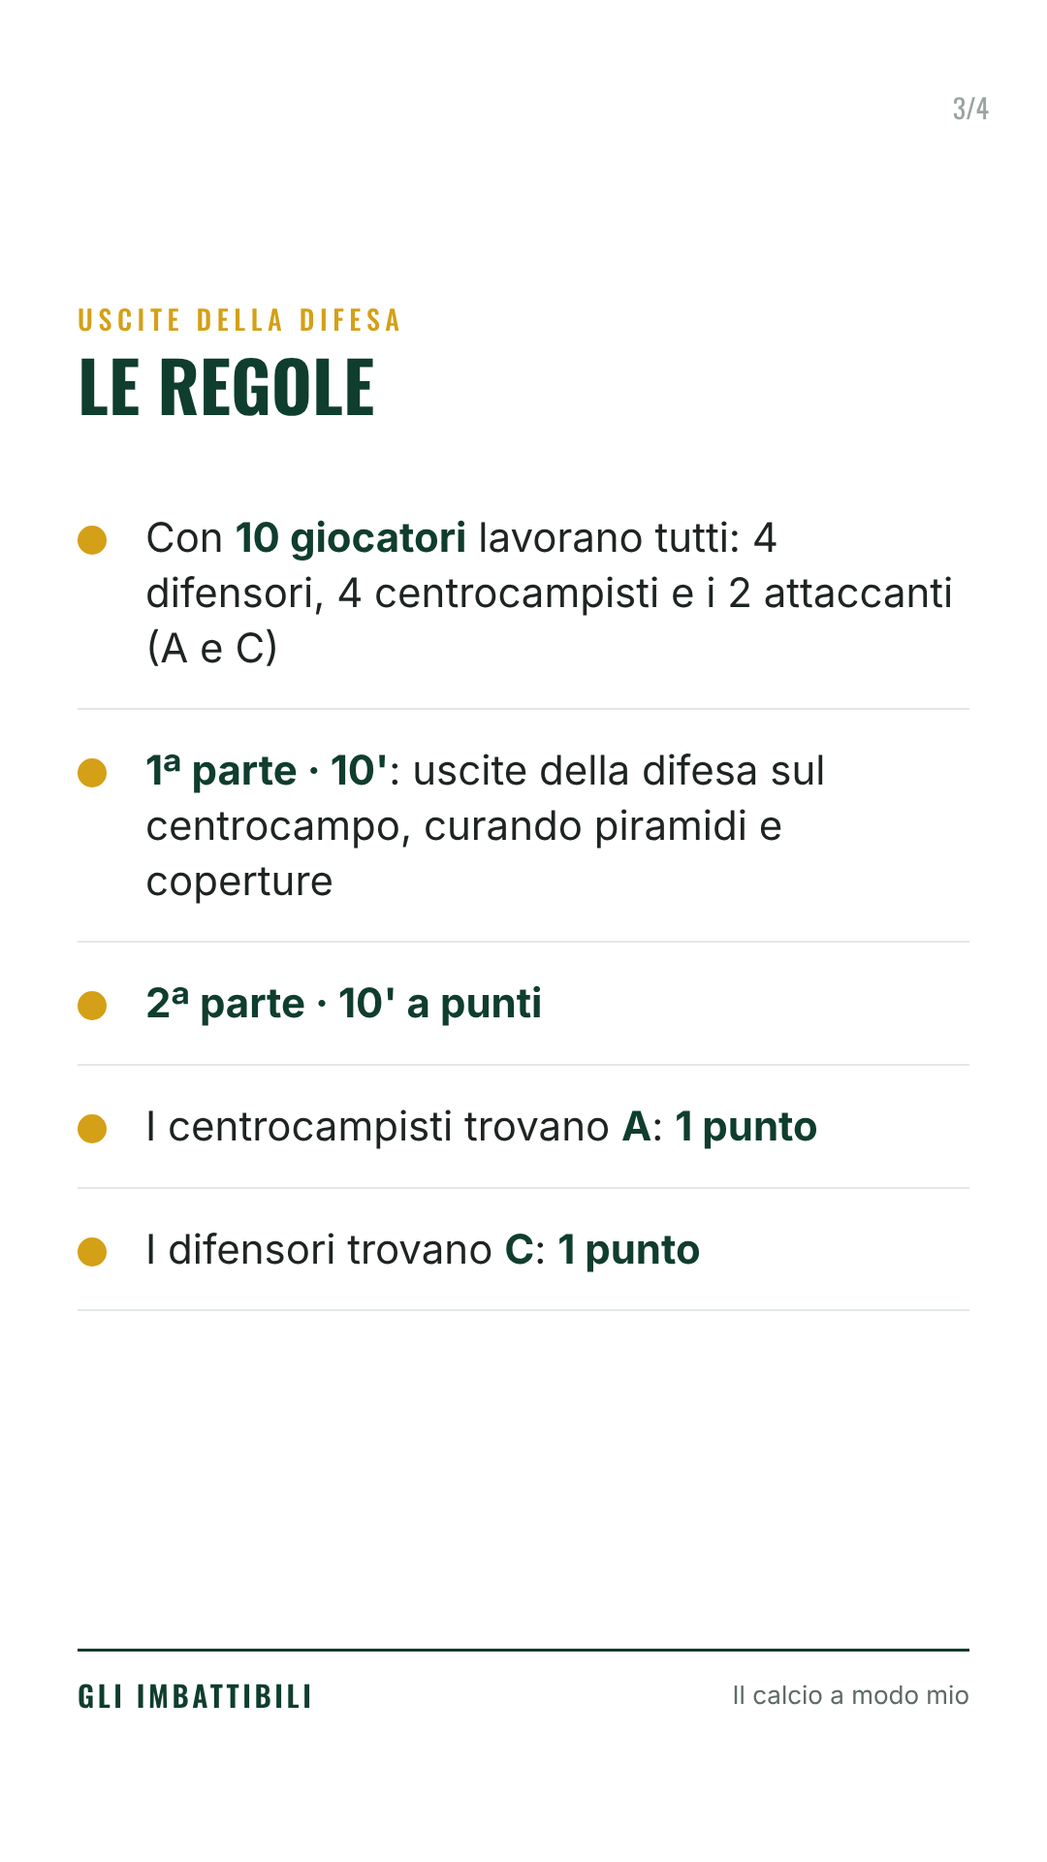
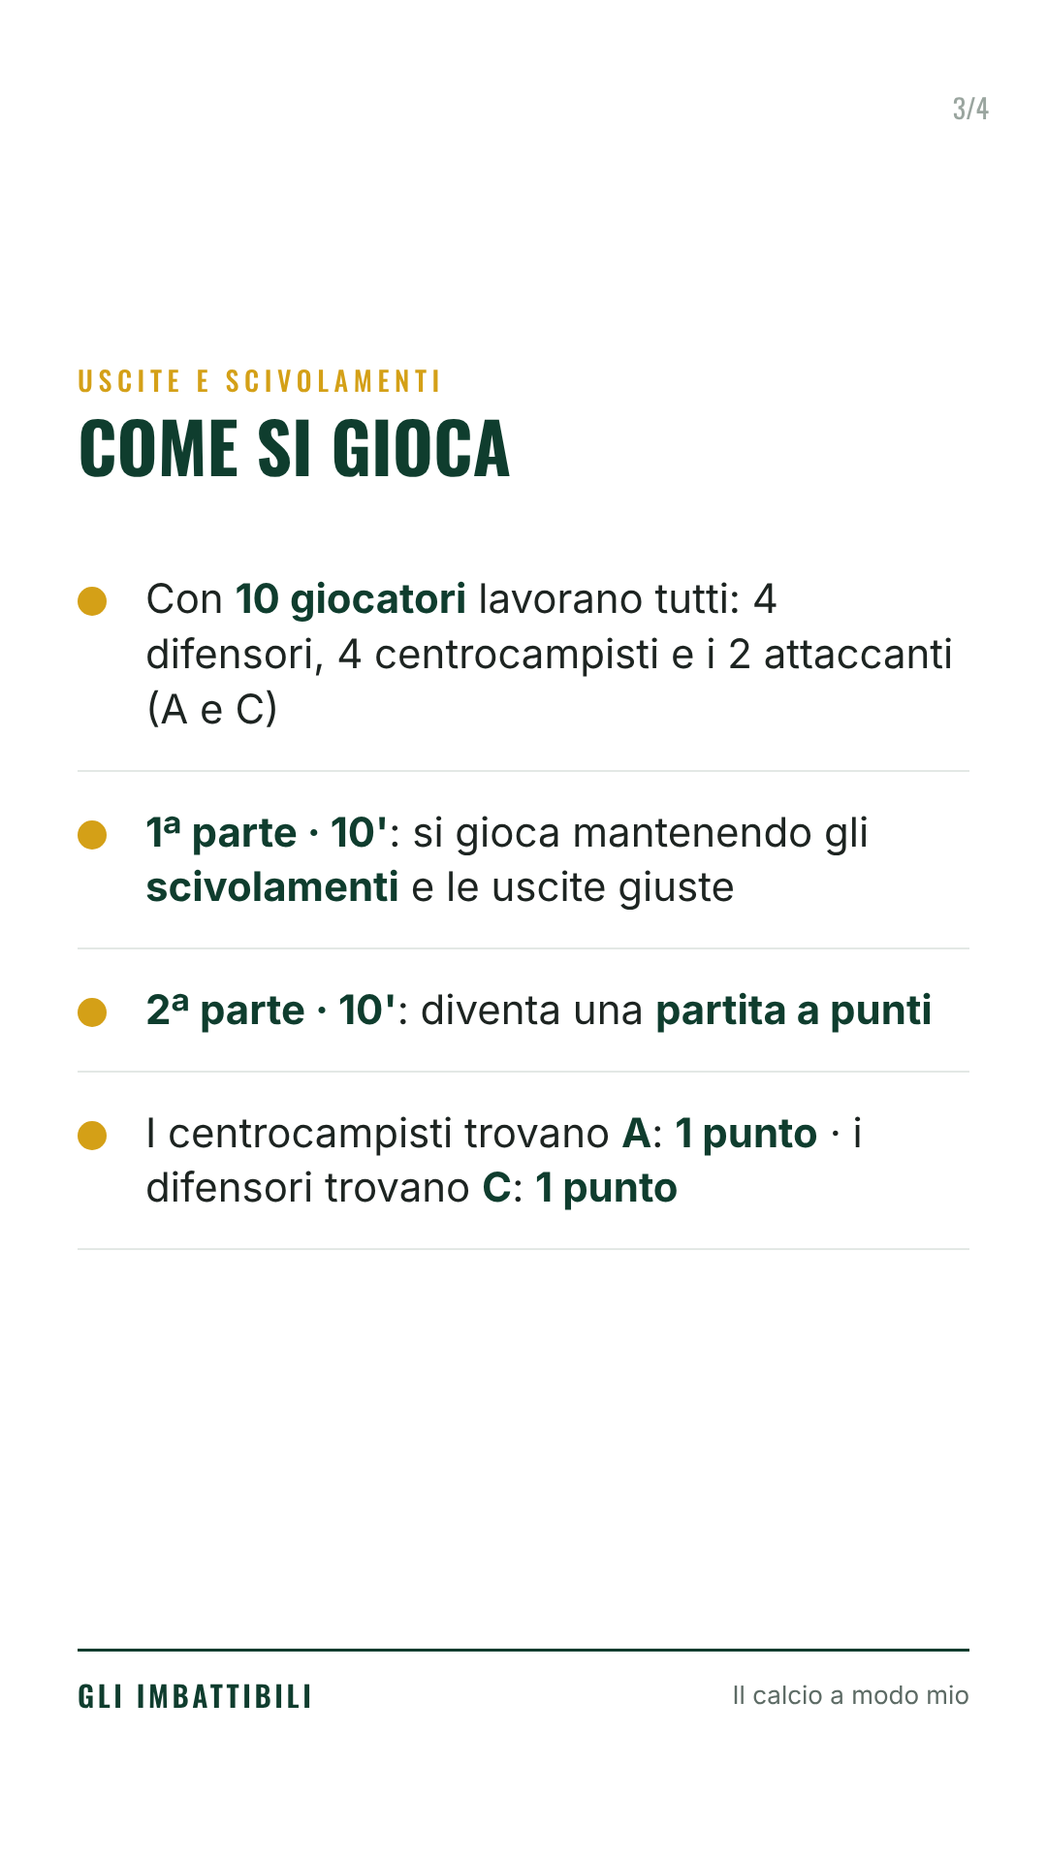
Post 15: piramide centrale, uscita a L, scivolamenti
Claude-Session: https://claude.ai/code/session_01Y6imChDnJpMKHUHGGzDa7m

diff --git a/marketing/social/post-solo15-4x5.html b/marketing/social/post-solo15-4x5.html
@@ -93,29 +93,30 @@ h1, h2 { font-family: Oswald, sans-serif; font-weight: 700; text-transform: uppe
 <section class="slide int">
   <div class="num">2/4</div>
   <div class="kicker">Esercitazione · Il Precampionato</div>
-  <h2 style="font-size:62px;margin-bottom:22px">Uscite della difesa sul centrocampo</h2>
+  <h2 style="font-size:58px;margin-bottom:22px">Uscite e scivolamenti, difesa e centrocampo</h2>
   <div class="riq" style="width:100%;max-width:820px;margin:0 auto"><svg class="schema" viewBox="0 0 500 330">
     <rect width="500" height="330" fill="url(#strisce)"/>
     <g fill="none" stroke="#fff" stroke-width="2.5"><rect x="50" y="65" width="400" height="200"/></g>
-    <use href="#pJ" x="250" y="35"/><text x="250" y="39.5" font-family="Oswald" font-size="13" font-weight="700" text-anchor="middle" fill="#1d2421">A</text><use href="#pJ" x="250" y="297"/><text x="250" y="301.5" font-family="Oswald" font-size="13" font-weight="700" text-anchor="middle" fill="#1d2421">C</text>
-    <g opacity=".4"><use href="#pB" x="130" y="100"/><text x="130" y="104.5" font-family="Oswald" font-size="13" font-weight="700" text-anchor="middle" fill="#fff">2</text><use href="#pB" x="210" y="100"/><text x="210" y="104.5" font-family="Oswald" font-size="13" font-weight="700" text-anchor="middle" fill="#fff">5</text><use href="#pB" x="290" y="100"/><text x="290" y="104.5" font-family="Oswald" font-size="13" font-weight="700" text-anchor="middle" fill="#fff">6</text></g>
-    <path d="M130,112 L130,178" stroke="#f2c230" stroke-width="2.5" fill="none" marker-end="url(#freccia-oro)"/>
-    <path d="M218,108 L178,128" stroke="#f2c230" stroke-width="2.5" fill="none" marker-end="url(#freccia-oro)"/><path d="M292,108 L252,124" stroke="#f2c230" stroke-width="2.5" fill="none" marker-end="url(#freccia-oro)"/>
-    <use href="#pB" x="130" y="190"/><text x="130" y="194.5" font-family="Oswald" font-size="13" font-weight="700" text-anchor="middle" fill="#fff">2</text><use href="#pB" x="170" y="135"/><text x="170" y="139.5" font-family="Oswald" font-size="13" font-weight="700" text-anchor="middle" fill="#fff">5</text><use href="#pB" x="245" y="130"/><text x="245" y="134.5" font-family="Oswald" font-size="13" font-weight="700" text-anchor="middle" fill="#fff">6</text><use href="#pB" x="370" y="100"/><text x="370" y="104.5" font-family="Oswald" font-size="13" font-weight="700" text-anchor="middle" fill="#fff">3</text>
-    <use href="#pA" x="130" y="235"/><use href="#pA" x="210" y="240"/><use href="#pA" x="290" y="240"/><use href="#pA" x="370" y="235"/>
-    <use href="#palla" x="142" y="242"/>
+    <use href="#pA" x="250" y="35"/><text x="250" y="39.5" font-family="Oswald" font-size="13" font-weight="700" text-anchor="middle" fill="#fff">A</text><use href="#pA" x="250" y="297"/><text x="250" y="301.5" font-family="Oswald" font-size="13" font-weight="700" text-anchor="middle" fill="#fff">C</text>
+    <g opacity=".4"><use href="#pB" x="130" y="100"/><text x="130" y="104.5" font-family="Oswald" font-size="13" font-weight="700" text-anchor="middle" fill="#fff">2</text><use href="#pB" x="210" y="100"/><text x="210" y="104.5" font-family="Oswald" font-size="13" font-weight="700" text-anchor="middle" fill="#fff">5</text><use href="#pB" x="290" y="100"/><text x="290" y="104.5" font-family="Oswald" font-size="13" font-weight="700" text-anchor="middle" fill="#fff">6</text><use href="#pB" x="370" y="100"/><text x="370" y="104.5" font-family="Oswald" font-size="13" font-weight="700" text-anchor="middle" fill="#fff">3</text></g>
+    <path d="M210,112 L210,178" stroke="#f2c230" stroke-width="2.5" fill="none" marker-end="url(#freccia-oro)"/>
+    <path d="M140,104 L160,118" stroke="#f2c230" stroke-width="2.5" fill="none" marker-end="url(#freccia-oro)"/><path d="M280,104 L262,118" stroke="#f2c230" stroke-width="2.5" fill="none" marker-end="url(#freccia-oro)"/><path d="M360,102 L332,108" stroke="#f2c230" stroke-width="2.5" fill="none" marker-end="url(#freccia-oro)"/>
+    <use href="#pB" x="210" y="190"/><text x="210" y="194.5" font-family="Oswald" font-size="13" font-weight="700" text-anchor="middle" fill="#fff">5</text><use href="#pB" x="168" y="128"/><text x="168" y="132.5" font-family="Oswald" font-size="13" font-weight="700" text-anchor="middle" fill="#fff">2</text><use href="#pB" x="254" y="128"/><text x="254" y="132.5" font-family="Oswald" font-size="13" font-weight="700" text-anchor="middle" fill="#fff">6</text><use href="#pB" x="322" y="110"/><text x="322" y="114.5" font-family="Oswald" font-size="13" font-weight="700" text-anchor="middle" fill="#fff">3</text>
+    <g fill="none" stroke="#f2c230" stroke-width="2" stroke-dasharray="5 4"><path d="M168,128 L210,190 L254,128"/></g>
+    <use href="#pA" x="130" y="240"/><use href="#pA" x="210" y="240"/><use href="#pA" x="290" y="240"/><use href="#pA" x="370" y="240"/>
+    <use href="#palla" x="222" y="247"/>
     <text x="250" y="58" fill="#fff" font-family="Oswald" font-size="13" text-anchor="middle" letter-spacing="1">20 M</text>
     <text x="465" y="170" fill="#fff" font-family="Oswald" font-size="13" text-anchor="middle" letter-spacing="1" transform="rotate(90 465 170)">10 M</text>
-    <text x="100" y="160" fill="#f2c230" font-family="Oswald" font-size="13" font-weight="700" text-anchor="middle" letter-spacing="1" transform="rotate(-90 100 160)">ESCE</text>
-    <text x="215" y="170" fill="#f2c230" font-family="Oswald" font-size="13" font-weight="700" text-anchor="middle" letter-spacing="1">PIRAMIDE</text>
-  </svg></div><p class="desc">Per chi gioca con il <b>4-4-2</b>: <b>4 difensori</b> contro <b>4 centrocampisti</b> in un rettangolo di <b>20 × 10 m</b>. I due attaccanti fanno da riferimento: <b>A</b> oltre la linea dei difensori, <b>C</b> oltre quella dei centrocampisti.<br><br>Quando un centrocampista riceve, il difensore di fronte <b>esce</b> e i compagni vicini si stringono alle sue spalle: la <b>piramide</b>.</p>
+    <text x="228" y="214" fill="#f2c230" font-family="Oswald" font-size="13" font-weight="700" letter-spacing="1">ESCE</text>
+    <text x="300" y="175" fill="#f2c230" font-family="Oswald" font-size="13" font-weight="700" letter-spacing="1">PIRAMIDE</text>
+  </svg></div><p class="desc">Per chi gioca con il <b>4-4-2</b>: <b>4 difensori</b> contro <b>4 centrocampisti</b> in un rettangolo di <b>20 × 10 m</b>, i due attaccanti come riferimento (<b>A</b> e <b>C</b>). Escono entrambi i reparti.<br><br><b>Palla centrale</b>: esce il giocatore di fronte e i compagni si stringono, terzino opposto compreso: la <b>piramide</b>.<br><b>Palla sull'esterno</b>: esce il laterale e gli altri restano in linea: uscita <b>a L</b>.</p>
   <div class="marchio"><b>GLI IMBATTIBILI</b><span>Il calcio a modo mio</span></div>
 </section>
 <section class="slide int">
   <div class="num">3/4</div>
-  <div class="kicker">Uscite della difesa</div>
-  <h2 style="font-size:72px">Le regole</h2>
-  <ul class="punti"><li>Con <b>10 giocatori</b> lavorano tutti: 4 difensori, 4 centrocampisti e i 2 attaccanti (A e C)</li><li><b>1ª parte · 10'</b>: uscite della difesa sul centrocampo, curando piramidi e coperture</li><li><b>2ª parte · 10' a punti</b></li><li>I centrocampisti trovano <b>A</b>: <b>1 punto</b></li><li>I difensori trovano <b>C</b>: <b>1 punto</b></li></ul>
+  <div class="kicker">Uscite e scivolamenti</div>
+  <h2 style="font-size:72px">Come si gioca</h2>
+  <ul class="punti"><li>Con <b>10 giocatori</b> lavorano tutti: 4 difensori, 4 centrocampisti e i 2 attaccanti (A e C)</li><li><b>1ª parte · 10'</b>: si gioca mantenendo gli <b>scivolamenti</b> e le uscite giuste</li><li><b>2ª parte · 10'</b>: diventa una <b>partita a punti</b></li><li>I centrocampisti trovano <b>A</b>: <b>1 punto</b> · i difensori trovano <b>C</b>: <b>1 punto</b></li></ul>
   <div class="marchio"><b>GLI IMBATTIBILI</b><span>Il calcio a modo mio</span></div>
 </section>
 <section class="slide fine">

diff --git a/marketing/social/post-solo15-9x16.html b/marketing/social/post-solo15-9x16.html
@@ -93,29 +93,30 @@ h1, h2 { font-family: Oswald, sans-serif; font-weight: 700; text-transform: uppe
 <section class="slide int">
   <div class="num">2/4</div>
   <div class="kicker">Esercitazione · Il Precampionato</div>
-  <h2 style="font-size:62px;margin-bottom:22px">Uscite della difesa sul centrocampo</h2>
+  <h2 style="font-size:58px;margin-bottom:22px">Uscite e scivolamenti, difesa e centrocampo</h2>
   <div class="riq" style="width:100%;max-width:820px;margin:0 auto"><svg class="schema" viewBox="0 0 500 330">
     <rect width="500" height="330" fill="url(#strisce)"/>
     <g fill="none" stroke="#fff" stroke-width="2.5"><rect x="50" y="65" width="400" height="200"/></g>
-    <use href="#pJ" x="250" y="35"/><text x="250" y="39.5" font-family="Oswald" font-size="13" font-weight="700" text-anchor="middle" fill="#1d2421">A</text><use href="#pJ" x="250" y="297"/><text x="250" y="301.5" font-family="Oswald" font-size="13" font-weight="700" text-anchor="middle" fill="#1d2421">C</text>
-    <g opacity=".4"><use href="#pB" x="130" y="100"/><text x="130" y="104.5" font-family="Oswald" font-size="13" font-weight="700" text-anchor="middle" fill="#fff">2</text><use href="#pB" x="210" y="100"/><text x="210" y="104.5" font-family="Oswald" font-size="13" font-weight="700" text-anchor="middle" fill="#fff">5</text><use href="#pB" x="290" y="100"/><text x="290" y="104.5" font-family="Oswald" font-size="13" font-weight="700" text-anchor="middle" fill="#fff">6</text></g>
-    <path d="M130,112 L130,178" stroke="#f2c230" stroke-width="2.5" fill="none" marker-end="url(#freccia-oro)"/>
-    <path d="M218,108 L178,128" stroke="#f2c230" stroke-width="2.5" fill="none" marker-end="url(#freccia-oro)"/><path d="M292,108 L252,124" stroke="#f2c230" stroke-width="2.5" fill="none" marker-end="url(#freccia-oro)"/>
-    <use href="#pB" x="130" y="190"/><text x="130" y="194.5" font-family="Oswald" font-size="13" font-weight="700" text-anchor="middle" fill="#fff">2</text><use href="#pB" x="170" y="135"/><text x="170" y="139.5" font-family="Oswald" font-size="13" font-weight="700" text-anchor="middle" fill="#fff">5</text><use href="#pB" x="245" y="130"/><text x="245" y="134.5" font-family="Oswald" font-size="13" font-weight="700" text-anchor="middle" fill="#fff">6</text><use href="#pB" x="370" y="100"/><text x="370" y="104.5" font-family="Oswald" font-size="13" font-weight="700" text-anchor="middle" fill="#fff">3</text>
-    <use href="#pA" x="130" y="235"/><use href="#pA" x="210" y="240"/><use href="#pA" x="290" y="240"/><use href="#pA" x="370" y="235"/>
-    <use href="#palla" x="142" y="242"/>
+    <use href="#pA" x="250" y="35"/><text x="250" y="39.5" font-family="Oswald" font-size="13" font-weight="700" text-anchor="middle" fill="#fff">A</text><use href="#pA" x="250" y="297"/><text x="250" y="301.5" font-family="Oswald" font-size="13" font-weight="700" text-anchor="middle" fill="#fff">C</text>
+    <g opacity=".4"><use href="#pB" x="130" y="100"/><text x="130" y="104.5" font-family="Oswald" font-size="13" font-weight="700" text-anchor="middle" fill="#fff">2</text><use href="#pB" x="210" y="100"/><text x="210" y="104.5" font-family="Oswald" font-size="13" font-weight="700" text-anchor="middle" fill="#fff">5</text><use href="#pB" x="290" y="100"/><text x="290" y="104.5" font-family="Oswald" font-size="13" font-weight="700" text-anchor="middle" fill="#fff">6</text><use href="#pB" x="370" y="100"/><text x="370" y="104.5" font-family="Oswald" font-size="13" font-weight="700" text-anchor="middle" fill="#fff">3</text></g>
+    <path d="M210,112 L210,178" stroke="#f2c230" stroke-width="2.5" fill="none" marker-end="url(#freccia-oro)"/>
+    <path d="M140,104 L160,118" stroke="#f2c230" stroke-width="2.5" fill="none" marker-end="url(#freccia-oro)"/><path d="M280,104 L262,118" stroke="#f2c230" stroke-width="2.5" fill="none" marker-end="url(#freccia-oro)"/><path d="M360,102 L332,108" stroke="#f2c230" stroke-width="2.5" fill="none" marker-end="url(#freccia-oro)"/>
+    <use href="#pB" x="210" y="190"/><text x="210" y="194.5" font-family="Oswald" font-size="13" font-weight="700" text-anchor="middle" fill="#fff">5</text><use href="#pB" x="168" y="128"/><text x="168" y="132.5" font-family="Oswald" font-size="13" font-weight="700" text-anchor="middle" fill="#fff">2</text><use href="#pB" x="254" y="128"/><text x="254" y="132.5" font-family="Oswald" font-size="13" font-weight="700" text-anchor="middle" fill="#fff">6</text><use href="#pB" x="322" y="110"/><text x="322" y="114.5" font-family="Oswald" font-size="13" font-weight="700" text-anchor="middle" fill="#fff">3</text>
+    <g fill="none" stroke="#f2c230" stroke-width="2" stroke-dasharray="5 4"><path d="M168,128 L210,190 L254,128"/></g>
+    <use href="#pA" x="130" y="240"/><use href="#pA" x="210" y="240"/><use href="#pA" x="290" y="240"/><use href="#pA" x="370" y="240"/>
+    <use href="#palla" x="222" y="247"/>
     <text x="250" y="58" fill="#fff" font-family="Oswald" font-size="13" text-anchor="middle" letter-spacing="1">20 M</text>
     <text x="465" y="170" fill="#fff" font-family="Oswald" font-size="13" text-anchor="middle" letter-spacing="1" transform="rotate(90 465 170)">10 M</text>
-    <text x="100" y="160" fill="#f2c230" font-family="Oswald" font-size="13" font-weight="700" text-anchor="middle" letter-spacing="1" transform="rotate(-90 100 160)">ESCE</text>
-    <text x="215" y="170" fill="#f2c230" font-family="Oswald" font-size="13" font-weight="700" text-anchor="middle" letter-spacing="1">PIRAMIDE</text>
-  </svg></div><p class="desc">Per chi gioca con il <b>4-4-2</b>: <b>4 difensori</b> contro <b>4 centrocampisti</b> in un rettangolo di <b>20 × 10 m</b>. I due attaccanti fanno da riferimento: <b>A</b> oltre la linea dei difensori, <b>C</b> oltre quella dei centrocampisti.<br><br>Quando un centrocampista riceve, il difensore di fronte <b>esce</b> e i compagni vicini si stringono alle sue spalle: la <b>piramide</b>.</p>
+    <text x="228" y="214" fill="#f2c230" font-family="Oswald" font-size="13" font-weight="700" letter-spacing="1">ESCE</text>
+    <text x="300" y="175" fill="#f2c230" font-family="Oswald" font-size="13" font-weight="700" letter-spacing="1">PIRAMIDE</text>
+  </svg></div><p class="desc">Per chi gioca con il <b>4-4-2</b>: <b>4 difensori</b> contro <b>4 centrocampisti</b> in un rettangolo di <b>20 × 10 m</b>, i due attaccanti come riferimento (<b>A</b> e <b>C</b>). Escono entrambi i reparti.<br><br><b>Palla centrale</b>: esce il giocatore di fronte e i compagni si stringono, terzino opposto compreso: la <b>piramide</b>.<br><b>Palla sull'esterno</b>: esce il laterale e gli altri restano in linea: uscita <b>a L</b>.</p>
   <div class="marchio"><b>GLI IMBATTIBILI</b><span>Il calcio a modo mio</span></div>
 </section>
 <section class="slide int">
   <div class="num">3/4</div>
-  <div class="kicker">Uscite della difesa</div>
-  <h2 style="font-size:72px">Le regole</h2>
-  <ul class="punti"><li>Con <b>10 giocatori</b> lavorano tutti: 4 difensori, 4 centrocampisti e i 2 attaccanti (A e C)</li><li><b>1ª parte · 10'</b>: uscite della difesa sul centrocampo, curando piramidi e coperture</li><li><b>2ª parte · 10' a punti</b></li><li>I centrocampisti trovano <b>A</b>: <b>1 punto</b></li><li>I difensori trovano <b>C</b>: <b>1 punto</b></li></ul>
+  <div class="kicker">Uscite e scivolamenti</div>
+  <h2 style="font-size:72px">Come si gioca</h2>
+  <ul class="punti"><li>Con <b>10 giocatori</b> lavorano tutti: 4 difensori, 4 centrocampisti e i 2 attaccanti (A e C)</li><li><b>1ª parte · 10'</b>: si gioca mantenendo gli <b>scivolamenti</b> e le uscite giuste</li><li><b>2ª parte · 10'</b>: diventa una <b>partita a punti</b></li><li>I centrocampisti trovano <b>A</b>: <b>1 punto</b> · i difensori trovano <b>C</b>: <b>1 punto</b></li></ul>
   <div class="marchio"><b>GLI IMBATTIBILI</b><span>Il calcio a modo mio</span></div>
 </section>
 <section class="slide fine">

diff --git a/marketing/social/genera-post.py b/marketing/social/genera-post.py
@@ -237,17 +237,18 @@ def schema_uscite():
     return f'''<svg class="schema" viewBox="0 0 500 330">
     <rect width="500" height="330" fill="url(#strisce)"/>
     <g fill="none" stroke="#fff" stroke-width="2.5"><rect x="50" y="65" width="400" height="200"/></g>
-    {g(250, 35, "pJ", "A", "#1d2421")}{g(250, 297, "pJ", "C", "#1d2421")}
-    <g opacity=".4">{g(130, 100, "pB", 2)}{g(210, 100, "pB", 5)}{g(290, 100, "pB", 6)}</g>
-    {freccia("M130,112 L130,178", True)}
-    {freccia("M218,108 L178,128", True)}{freccia("M292,108 L252,124", True)}
-    {g(130, 190, "pB", 2)}{g(170, 135, "pB", 5)}{g(245, 130, "pB", 6)}{g(370, 100, "pB", 3)}
-    {g(130, 235, "pA")}{g(210, 240, "pA")}{g(290, 240, "pA")}{g(370, 235, "pA")}
-    <use href="#palla" x="142" y="242"/>
+    {g(250, 35, "pA", "A")}{g(250, 297, "pA", "C")}
+    <g opacity=".4">{g(130, 100, "pB", 2)}{g(210, 100, "pB", 5)}{g(290, 100, "pB", 6)}{g(370, 100, "pB", 3)}</g>
+    {freccia("M210,112 L210,178", True)}
+    {freccia("M140,104 L160,118", True)}{freccia("M280,104 L262,118", True)}{freccia("M360,102 L332,108", True)}
+    {g(210, 190, "pB", 5)}{g(168, 128, "pB", 2)}{g(254, 128, "pB", 6)}{g(322, 110, "pB", 3)}
+    <g fill="none" stroke="#f2c230" stroke-width="2" stroke-dasharray="5 4"><path d="M168,128 L210,190 L254,128"/></g>
+    {g(130, 240, "pA")}{g(210, 240, "pA")}{g(290, 240, "pA")}{g(370, 240, "pA")}
+    <use href="#palla" x="222" y="247"/>
     <text x="250" y="58" fill="#fff" font-family="Oswald" font-size="13" text-anchor="middle" letter-spacing="1">20 M</text>
     <text x="465" y="170" fill="#fff" font-family="Oswald" font-size="13" text-anchor="middle" letter-spacing="1" transform="rotate(90 465 170)">10 M</text>
-    <text x="100" y="160" fill="#f2c230" font-family="Oswald" font-size="13" font-weight="700" text-anchor="middle" letter-spacing="1" transform="rotate(-90 100 160)">ESCE</text>
-    <text x="215" y="170" fill="#f2c230" font-family="Oswald" font-size="13" font-weight="700" text-anchor="middle" letter-spacing="1">PIRAMIDE</text>
+    <text x="228" y="214" fill="#f2c230" font-family="Oswald" font-size="13" font-weight="700" letter-spacing="1">ESCE</text>
+    <text x="300" y="175" fill="#f2c230" font-family="Oswald" font-size="13" font-weight="700" letter-spacing="1">PIRAMIDE</text>
   </svg>'''
 
 
@@ -487,15 +488,14 @@ POST = [
         gancio="Uscire<span>senza lasciare spazio</span>", h1style="font-size:120px",
         sub="Difensori e centrocampisti insieme, per chi gioca con il <b>4-4-2</b>.",
         custom=[
-            dict(kicker="Esercitazione · Il Precampionato", titolo="Uscite della difesa sul centrocampo", schema=schema_uscite(),
-                 testo="Per chi gioca con il <b>4-4-2</b>: <b>4 difensori</b> contro <b>4 centrocampisti</b> in un rettangolo di <b>20 × 10 m</b>. I due attaccanti fanno da riferimento: <b>A</b> oltre la linea dei difensori, <b>C</b> oltre quella dei centrocampisti.<br><br>Quando un centrocampista riceve, il difensore di fronte <b>esce</b> e i compagni vicini si stringono alle sue spalle: la <b>piramide</b>.",
-                 h2style="font-size:62px;margin-bottom:22px", riqstyle="width:100%;max-width:820px;margin:0 auto"),
-            dict(kicker="Uscite della difesa", titolo="Le regole",
+            dict(kicker="Esercitazione · Il Precampionato", titolo="Uscite e scivolamenti, difesa e centrocampo", schema=schema_uscite(),
+                 testo="Per chi gioca con il <b>4-4-2</b>: <b>4 difensori</b> contro <b>4 centrocampisti</b> in un rettangolo di <b>20 × 10 m</b>, i due attaccanti come riferimento (<b>A</b> e <b>C</b>). Escono entrambi i reparti.<br><br><b>Palla centrale</b>: esce il giocatore di fronte e i compagni si stringono, terzino opposto compreso: la <b>piramide</b>.<br><b>Palla sull'esterno</b>: esce il laterale e gli altri restano in linea: uscita <b>a L</b>.",
+                 h2style="font-size:58px;margin-bottom:22px", riqstyle="width:100%;max-width:820px;margin:0 auto"),
+            dict(kicker="Uscite e scivolamenti", titolo="Come si gioca",
                  punti=["Con <b>10 giocatori</b> lavorano tutti: 4 difensori, 4 centrocampisti e i 2 attaccanti (A e C)",
-                        "<b>1ª parte · 10'</b>: uscite della difesa sul centrocampo, curando piramidi e coperture",
-                        "<b>2ª parte · 10' a punti</b>",
-                        "I centrocampisti trovano <b>A</b>: <b>1 punto</b>",
-                        "I difensori trovano <b>C</b>: <b>1 punto</b>"],
+                        "<b>1ª parte · 10'</b>: si gioca mantenendo gli <b>scivolamenti</b> e le uscite giuste",
+                        "<b>2ª parte · 10'</b>: diventa una <b>partita a punti</b>",
+                        "I centrocampisti trovano <b>A</b>: <b>1 punto</b> · i difensori trovano <b>C</b>: <b>1 punto</b>"],
                  h2style="font-size:72px"),
         ],
         fine_h1="Uscire<span>coperti</span>",

diff --git a/marketing/social/testi-dei-post.md b/marketing/social/testi-dei-post.md
@@ -272,3 +272,4 @@ Voi come lo allenate? Lavorate più sugli uomini o sulla palla?
 ## Post 15 – «Uscire senza lasciare spazio» (video HeyGen in regalo, 6/11)
 Esercitazione dell'Allenamento 5 mai pubblicata prima (controllato): uscite della difesa sul centrocampo, 4 contro 4, rettangolo **20 m di larghezza × 10 m** (misura data dall'allenatore il 6/11), A oltre i difensori, C oltre i centrocampisti, 1ª parte 10' uscite con piramide, 2ª parte 10' a punti (centrocampisti trovano A = 1, difensori trovano C = 1). Slide verticali `immagini/tiktok-post15-1..4.png`. Video con avatar HeyGen; prompt scena per scena in `marketing/reel/heygen/modello-prompt.md`.
 Precisato dall'allenatore il 6/11: è per chi gioca con il 4-4-2, allena difensori e centrocampisti insieme sulle uscite; A e C sono i due attaccanti; con 22 giocatori divisi in due gruppi da 10 lavorano tutti e 10. Niente «te la regalo»: si parla da tecnico.
+Correzioni dell'allenatore (6/11, dopo il primo video): escono entrambi i reparti; piramide solo sulla palla centrale (esce il giocatore di fronte, terzino e centrale si stringono, anche il terzino opposto); sull'esterno esce il laterale e gli altri restano in linea = uscita a L; 1ª parte a partita con obiettivo mantenere gli scivolamenti, poi diventa partita a punti.
